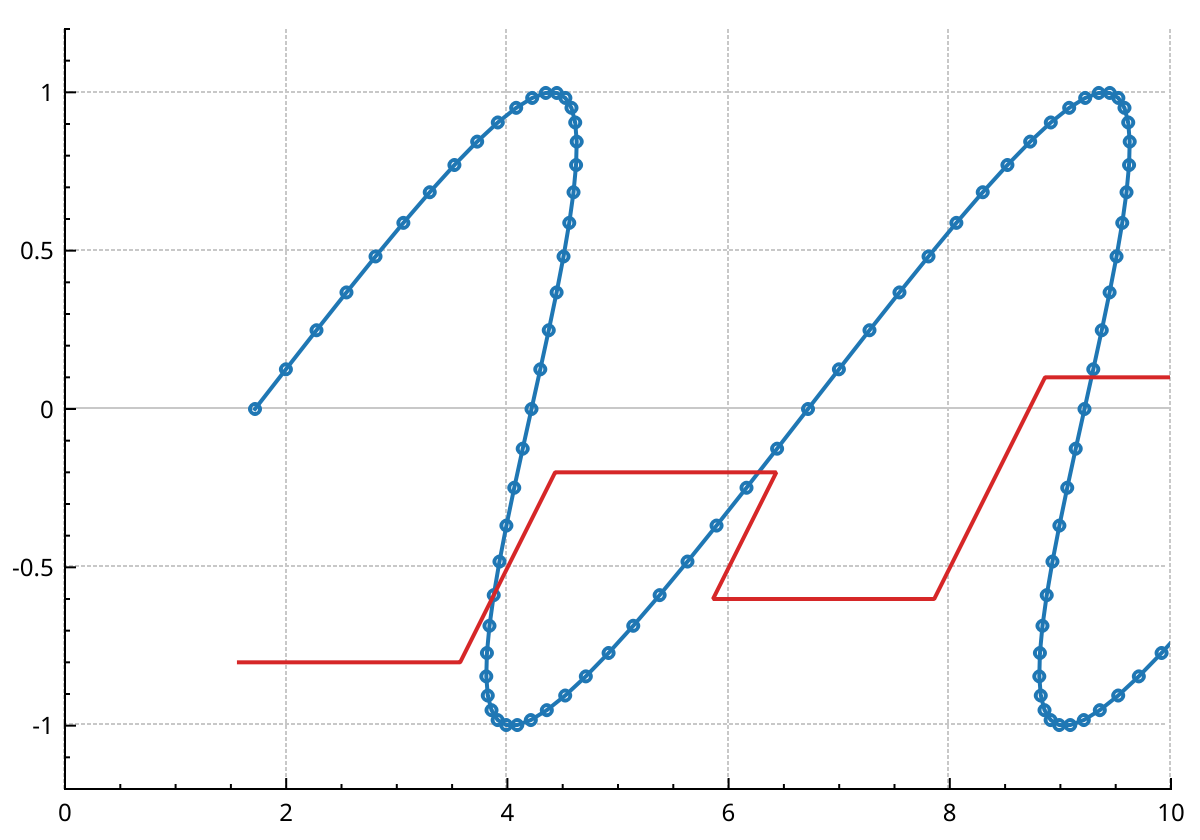
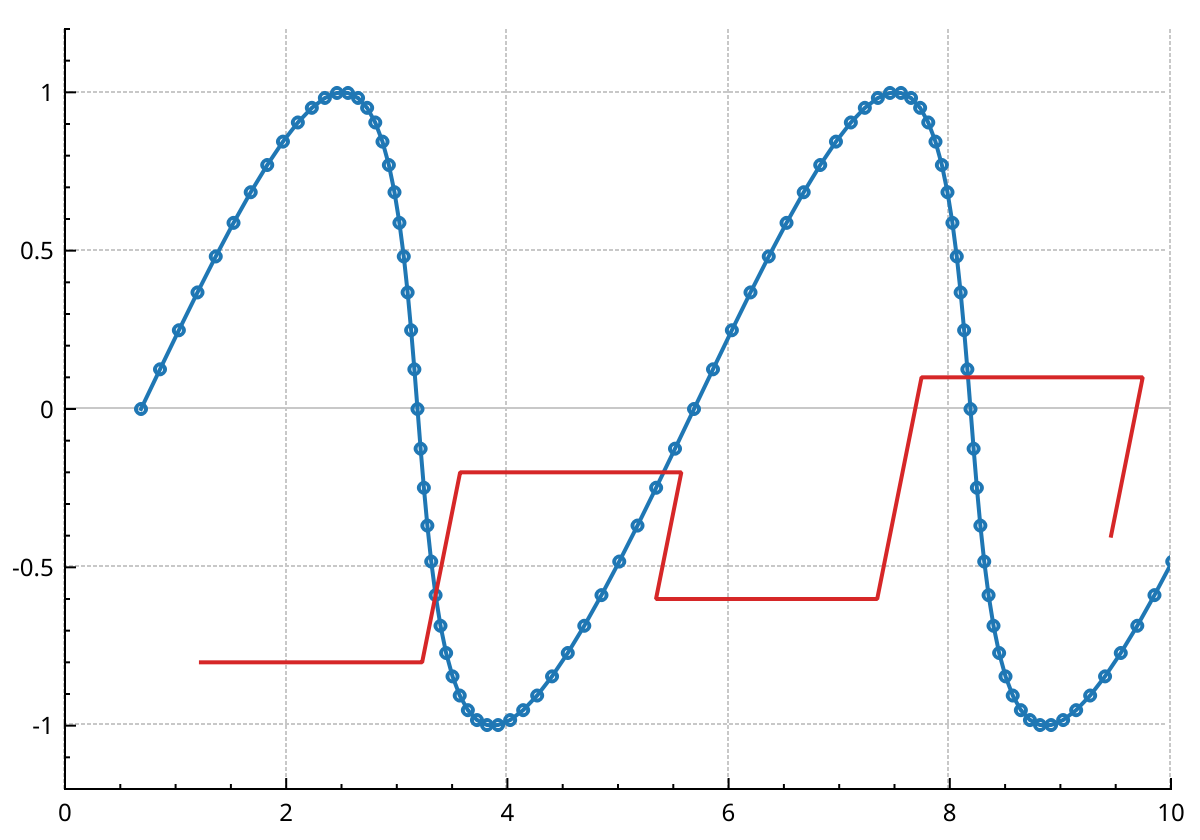
docs(systems): a gentler shear in the example

diff --git a/docs/snippets/systems.cpp b/docs/snippets/systems.cpp
@@ -77,7 +77,7 @@ private:
 
     mutable std::shared_ptr<const ShearMapping> mMapping;
     mutable quint64 mBuiltRevision = 0;
-    double mShear = 0.5;
+    double mShear = 0.2;
 };
 
 // The area: an ordinary axis rect, except that every pair of its axes makes a ShearSystem.
